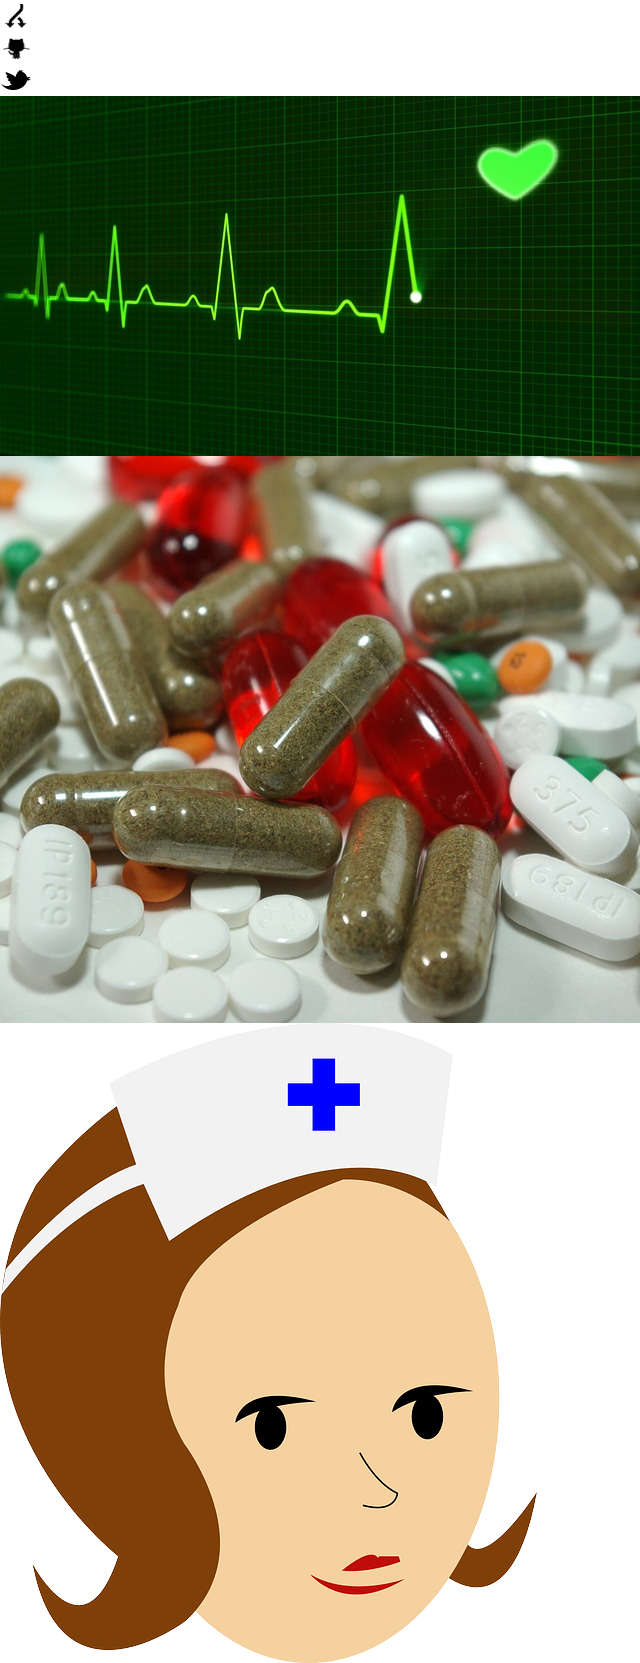
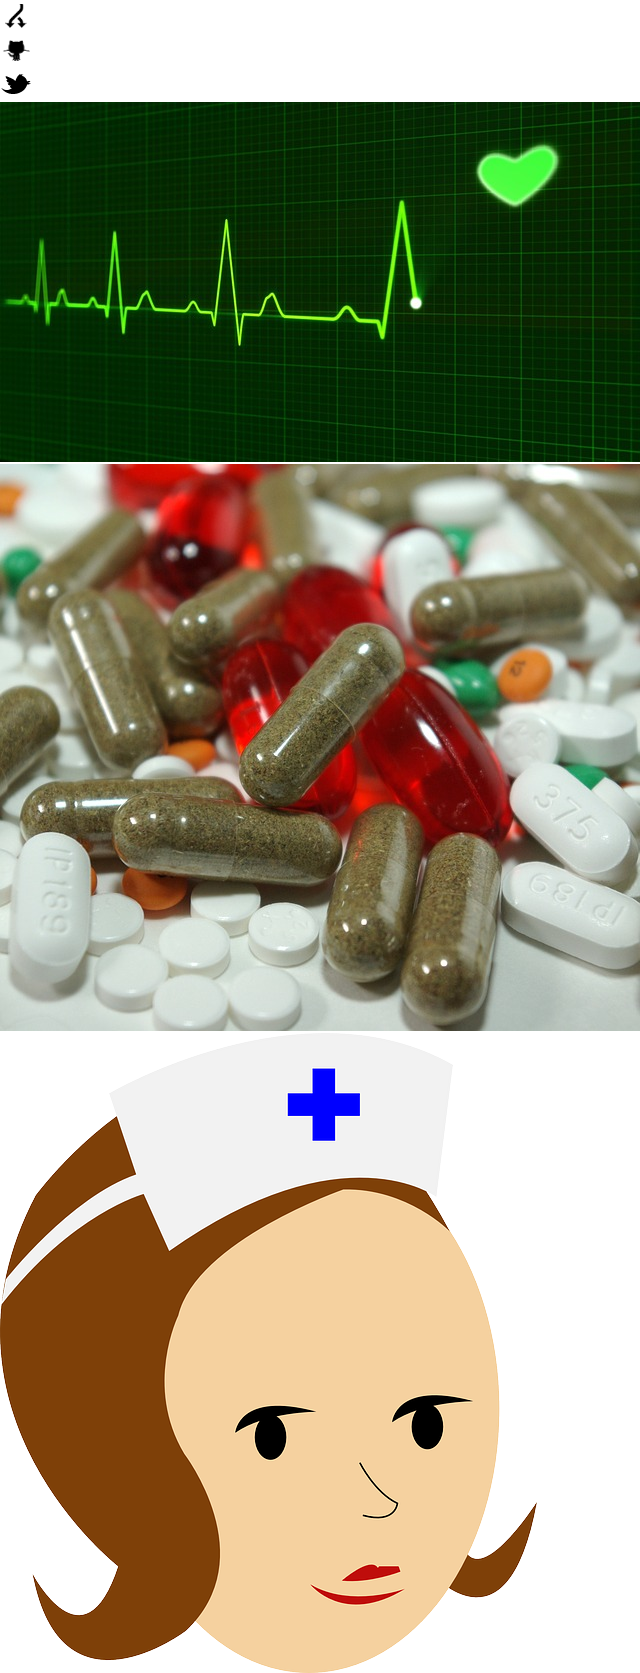
added CSS sprite options to Gruntfile

diff --git a/src/less/sprites.css b/src/less/sprites.css
@@ -5,39 +5,39 @@ Icon classes can be used entirely standalone. They are named after their origina
 <i class="icon-home"></i>
 ```
 */
-.icon-fork {
+.sprite-img-fork {
   background-image: url(../assets/images/s.png);
   background-position: 0px 0px;
   width: 32px;
   height: 32px;
 }
-.icon-capsules {
+.sprite-img-capsules {
   background-image: url(../assets/images/s.png);
-  background-position: 0px -456px;
+  background-position: 0px -464px;
   width: 640px;
   height: 567px;
 }
-.icon-heartbeat {
+.sprite-img-heartbeat {
   background-image: url(../assets/images/s.png);
-  background-position: 0px -96px;
+  background-position: 0px -102px;
   width: 640px;
   height: 360px;
 }
-.icon-nurse {
+.sprite-img-nurse {
   background-image: url(../assets/images/s.png);
-  background-position: 0px -1023px;
+  background-position: 0px -1033px;
   width: 537px;
   height: 640px;
 }
-.icon-github {
+.sprite-img-github {
   background-image: url(../assets/images/s.png);
-  background-position: 0px -32px;
+  background-position: 0px -34px;
   width: 32px;
   height: 32px;
 }
-.icon-twitter {
+.sprite-img-twitter {
   background-image: url(../assets/images/s.png);
-  background-position: 0px -64px;
+  background-position: 0px -68px;
   width: 32px;
   height: 32px;
 }

diff --git a/Gruntfile.js b/Gruntfile.js
@@ -456,8 +456,21 @@ module.exports = function (grunt) {
       all: {
         src: 'src/sprites/**/*.png',
         destImg: 'src/assets/images/s.png',
-        destCSS: 'src/less/sprites.css'
-//        algorithm: 'alt-diagonal'
+        destCSS: 'src/less/sprites.css',
+
+        // OPTIONAL: Specify padding between images
+        'padding': 2,
+
+        // OPTIONAL: Specify css options
+        'cssOpts': {
+          // Some templates allow for skipping of function declarations
+          'functions': false,
+
+          // CSS template allows for overriding of CSS selectors
+          'cssClass': function (item) {
+            return '.sprite-img-' + item.name;
+          }
+        }
       }
     },
 

diff --git a/src/app/home/home.tpl.html b/src/app/home/home.tpl.html
@@ -1,18 +1,9 @@
 <section ng-controller="HomeCtrl">
-  <h1>Default Page</h1>
 
-  <!--<img src="../assets/images/s.png" alt=""/>-->
+  <h1>Default Home Page</h1>
+  <h3>Some CSS Sprite images & icons</h3>
+  <div class="sprite-img-github"></div>
 
-  <div>
-    <h3>Nurse Image</h3>
-    <img class="icon-nurse" src="" border="0"/>
-  </div>
-
-  <br>
-
-  <div>
-    <h3>Heartbeat Image</h3>
-    <img class="icon-heartbeat" src="" alt="CSS Sprite Heartbeat"/>
-  </div>
+  <div class="sprite-img-twitter"></div>
 
 </section>
